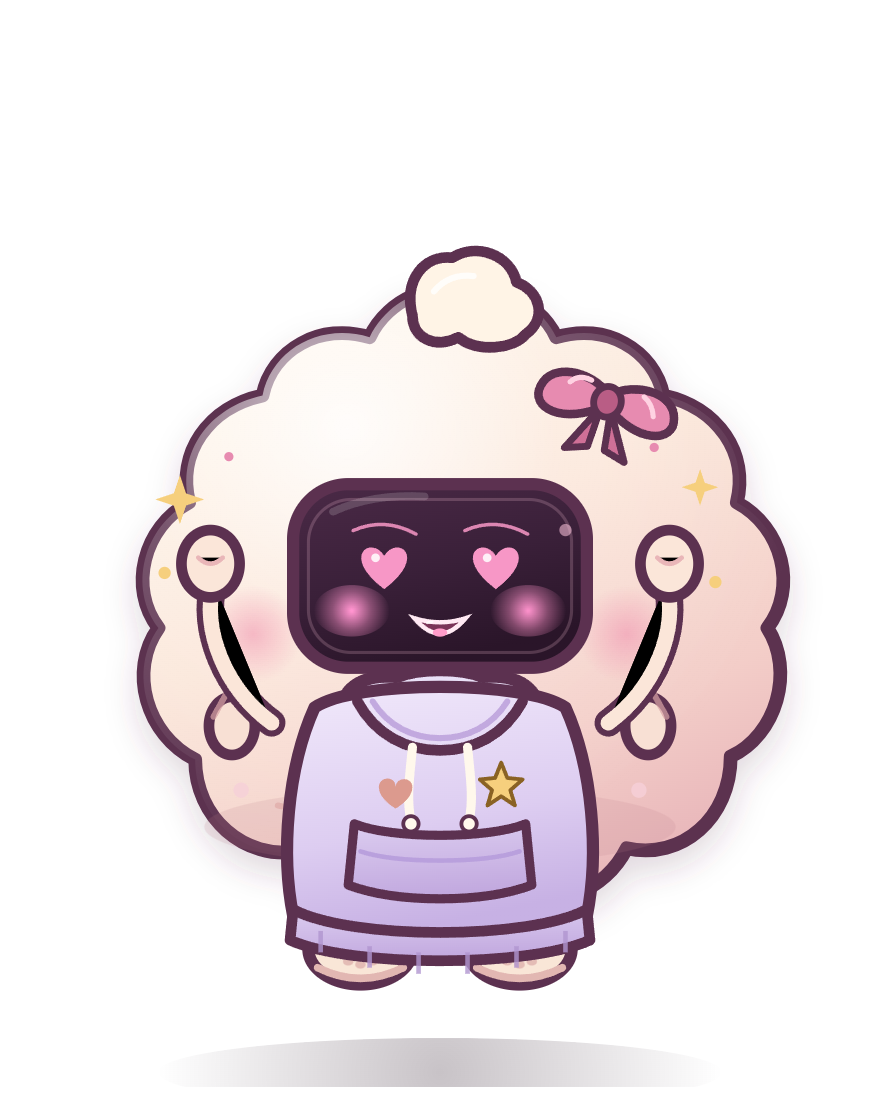
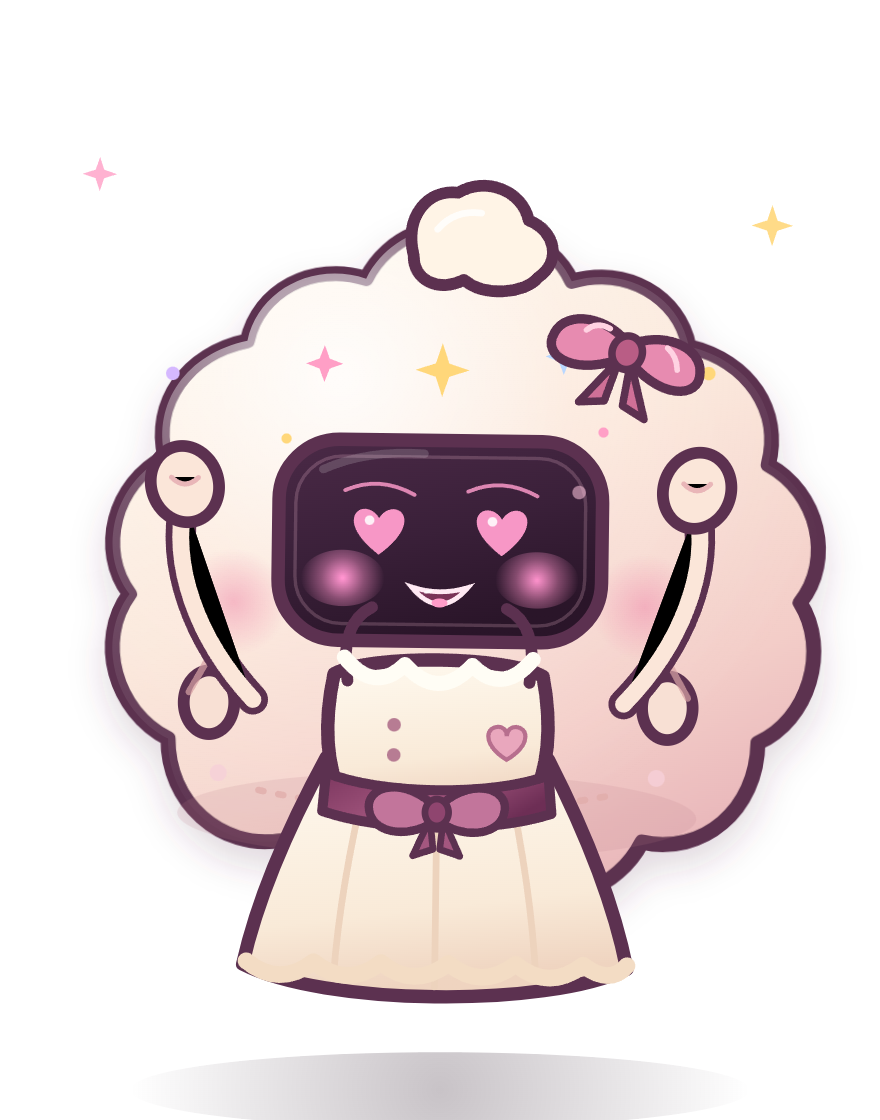
Show Buffy in her Cloud dress in the homepage hero.
The hero portrait now uses the catalog's dress look instead of the lavender
hoodie, keeping the heart-eyed, both-arms-up pose, and the alt text and
cache-busting query follow the new art.

🤖 Generated with Codebuff

Changed region(s): [[0.092, 0.1562, 0.9511, 1.0], [0.092, 0.125, 0.1227, 0.1875], [0.8591, 0.1875, 0.8898, 0.2188]]

diff --git a/docs/index.html b/docs/index.html
@@ -13,7 +13,7 @@
   <meta property="og:title" content="Buffy — a plush desktop companion for your coding agent">
   <meta property="og:description" content="A plush little cloud who lives on your desktop, carries your next prompt into Claude, and naps when the work is done.">
   <meta property="og:url" content="https://slayyyyer.github.io/buffy/">
-  <meta property="og:image" content="https://slayyyyer.github.io/buffy/shots/buffy.png?v=3.2.0-shots">
+  <meta property="og:image" content="https://slayyyyer.github.io/buffy/shots/buffy.png?v=3.3.2-shots">
   <link rel="stylesheet" href="site.css?v=3.2.0-gallery">
 </head>
 <body>
@@ -57,7 +57,7 @@
         <span class="stage-heart" aria-hidden="true">♥</span>
         <span class="float-tag tag-working" aria-hidden="true"><i></i> thinking</span>
         <span class="float-tag tag-done" aria-hidden="true">needs you <b>●</b></span>
-        <img class="hero-buffy" src="shots/buffy.png?v=3.2.0-shots" width="880" height="1120" alt="Buffy, a plush cream cloud robot with a dark screen face, heart eyes, pink cheeks, a pink bow, and a lavender cloud hoodie">
+        <img class="hero-buffy" src="shots/buffy.png?v=3.3.2-shots" width="880" height="1120" alt="Buffy, a plush cream cloud robot with a dark screen face, heart eyes, pink cheeks, a pink bow, and a cream cloud dress with a plum sash">
         <span class="stage-caption" aria-hidden="true">always on top · always on your side</span>
       </div>
     </section>
@@ -106,7 +106,7 @@
       </div>
       <ul class="companion-gallery" aria-label="All 22 Buffy companions">
         <li class="companion-card companion-card-buffy">
-          <span class="companion-portrait"><img src="shots/buffy.png?v=3.2.0-gallery" width="880" height="1120" loading="lazy" decoding="async" alt=""></span>
+          <span class="companion-portrait"><img src="shots/buffy.png?v=3.3.2-gallery" width="880" height="1120" loading="lazy" decoding="async" alt=""></span>
           <span class="companion-name">Buffy</span>
         </li>
         <li class="companion-card">
